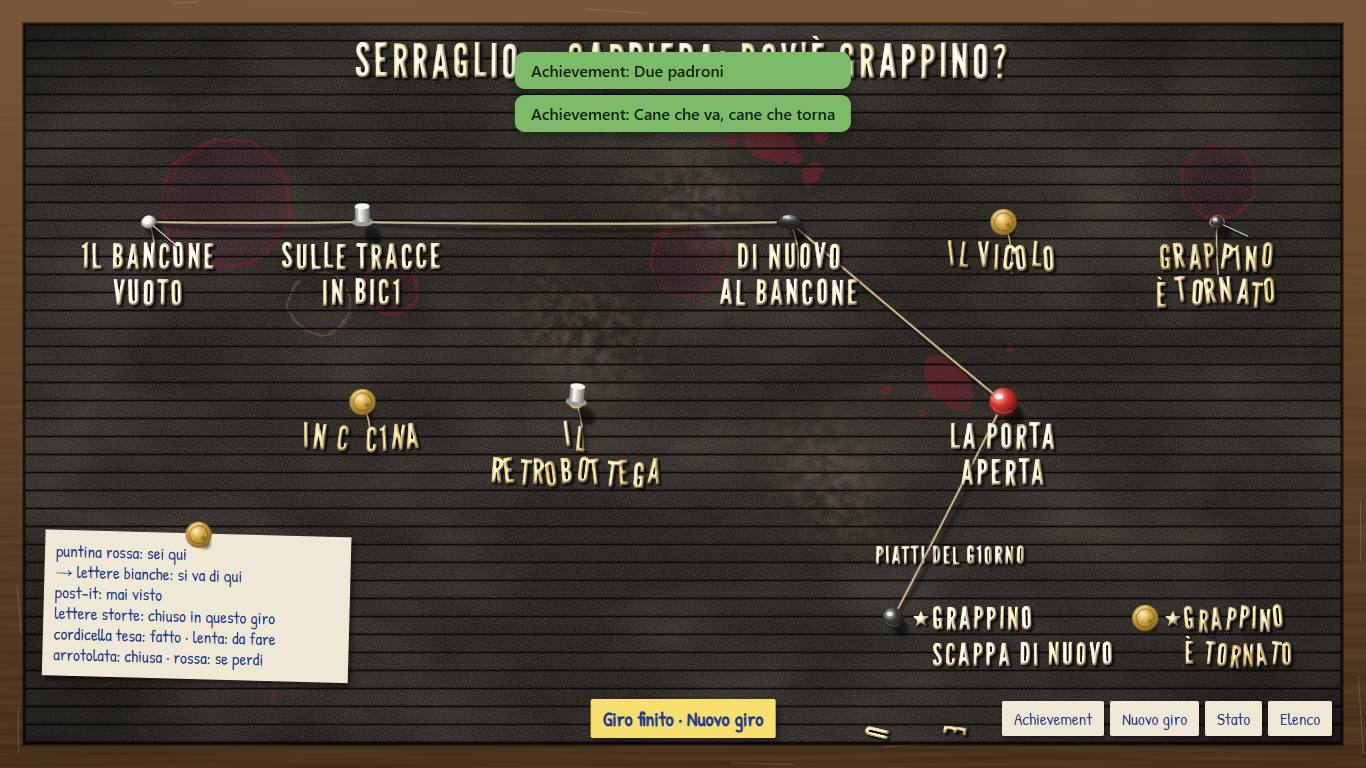
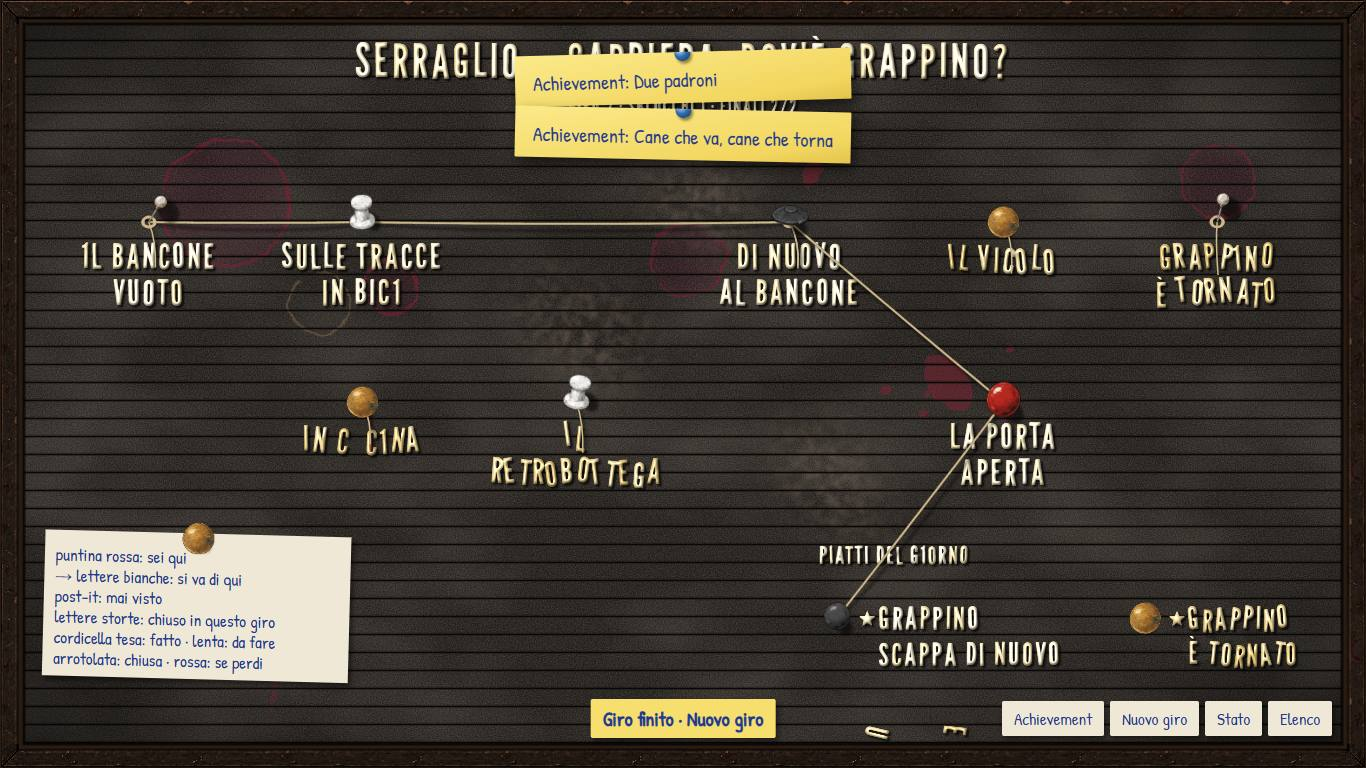
CA-0a: phase D, retouches after the owner's judgement of the real map
- Layer order, as the owner asked: letters, post-its and cards on the
  felt, then the strings with their shadow falling on everything below,
  then the pin heads they are tied to; both orientations, every string.
- The second-round generated pins have no point: each image is placed by
  where it enters the felt (base of the head, or the end of the shaft for
  the dressmaker's pin and the nail), measured on its alpha; rotation,
  strings and shadow follow that anchor.
- Bigger pins (round head about 26 px landscape, 22 px portrait, "you are
  here" 30% more); letters and post-its are laid out from the pins' real
  extent, so no pin covers a title or a post-it's "???".
- Achievement and unlock notices are pinned post-its and cards.
- Only the strings actually walked are taut; the others are slack if
  still possible, coiled otherwise: far less crowding at the end of a run.

47 unit tests, 25/25 mutations caught, Check and Build green, 52 captures
with the generated frame and pins (12 replaced, 1.3 MB). Report section in
prototipo-fase-d.md.

diff --git a/prototipi/carriere/src/bacheca.ts b/prototipi/carriere/src/bacheca.ts
@@ -148,11 +148,15 @@ export function componi(c: Carriera, s: Stato, ultimo: string | null, intestazio
     });
   }
   const g = s.giro;
-  const fatto = (id: string) => g.visti.includes(id) || (id.startsWith('fine:') && g.fine !== null && idCasellaFine(g.finale ?? '') === id);
-  // Anche il ritorno alla scelta (epilogo → scena 4) è una cordicella: sulla bacheca non c'è un verso.
+  // Tesa solo la cordicella percorsa davvero in questo giro (nodi visti uno dopo l'altro, e l'ultimo verso il finale raggiunto); lenta
+  // quella che si può ancora prendere; arrotolata ogni altra, anche fra due nodi visti ma per un'altra strada (ritocchi della Fase D:
+  // a fine giro restano tese solo quelle del percorso, e la bacheca non si affolla).
+  const percorso = new Set(g.visti.slice(1).map((x, i) => `${g.visti[i]}>${x}`));
+  if (g.fine && g.visti.length) percorso.add(`${g.visti.at(-1)}>${idCasellaFine(g.finale ?? g.fine)}`);
+  const ancoraPossibile = (id: string) => ['aperto', 'disponibile', 'bloccato'].includes(stati[id].stato);
   const fili: Filo[] = archi(c).filter(a => visibili.has(a.da) && visibili.has(a.a)).map(a => ({
     da: a.da, a: a.a, sconfitta: a.tipo === 'sconfitta',
-    tipo: fatto(a.da) && fatto(a.a) ? 'tesa' : stati[a.da].stato === 'escluso' || stati[a.a].stato === 'escluso' ? 'arrotolata' : 'lenta',
+    tipo: percorso.has(`${a.da}>${a.a}`) ? 'tesa' : ancoraPossibile(a.a) && stati[a.da].stato !== 'escluso' ? 'lenta' : 'arrotolata',
   }));
   const conti = `GIRO ${g.numero} · SBLOCCHI ${s.account.sblocchi.length} · FINALI ${s.account.finali.length}/${finali(c).length}`;
   return {
@@ -240,6 +244,8 @@ export type Disposizione = {
   pos: Record<string, Pt>;              // spillo di ogni punto
   etichette: Record<string, Etichetta>; // dove cominciano le lettere
   postit: {w: number; h: number};
+  lato: Record<string, number>;         // lato dell'immagine di ogni puntina, in pixel
+  postitY: Record<string, number>;      // bordo alto di ogni post-it: la puntina lo trafigge senza coprire il «???»
   legenda: {x: number; y: number; w: number; h: number; righe: string[]} | null;  // in verticale si apre con un pulsante
   fondo: number;                        // dove stanno le lettere cadute
 };
@@ -306,7 +312,8 @@ export function disponi(comp: Composizione, w: number, h: number, alto: number, 
     for (let i = voluti.length - 1; i >= 0; i--) {
       const x = Math.max(fx + p * 20, Math.min(voluti[i].x, limite));  // a sinistra resta la legenda
       pos[voluti[i].f.id] = {x, y: scan(yFinali + p * 2) + p};
-      limite = x - p * 14;
+      // Il finale a sinistra deve finire le sue lettere prima della puntina di questo.
+      limite = x - Math.max(p * 14, i > 0 ? larghezza(voluti[i - 1].f) + fs * 0.55 + p * 5 : 0);
     }
   } else {
     fini.forEach((f, i) => {
@@ -315,14 +322,57 @@ export function disponi(comp: Composizione, w: number, h: number, alto: number, 
       pos[f.id] = {x: f.postit ? centro : Math.max(fx + p, centro - blocco / 2), y: scan(yFinali + p * 2) + p};
     });
   }
+  // Le lettere stanno lontane dalla puntina (ritocchi della Fase D: nessuna puntina sopra un titolo): in orizzontale sotto il punto più
+  // basso della puntina, in verticale e per i finali a destra del punto più a destra; i post-it pendono abbastanza da lasciare libero il «???».
   const etichette: Record<string, Etichetta> = {};
+  const postitY: Record<string, number> = {};
+  const lato = Object.fromEntries(comp.punti.map(x => [x.id, latoPuntina(p, verticale, x.corrente) * SCALA[x.spillo.forma]]));
+  const ph = p * 3.8;
   for (const n of comp.punti) {
     const s = pos[n.id];
-    etichette[n.id] = n.tipo === 'finale' ? {x: s.x + p * 1.1 + fs * 0.55, y: s.y + p * 0.65, ancora: 'start'}
-      : verticale ? {x: s.x + p * 1.1 + (n.freccia ? fs * 0.8 : 0), y: s.y + p * 0.65, ancora: 'start'} : {x: s.x, y: s.y + p * 2.6, ancora: 'middle'};
+    const b = ingombroPuntina(n.spillo, s, lato[n.id]);
+    const destra = Math.max(s.x + p * 1.1, b.x1 + p * 0.4);
+    etichette[n.id] = n.tipo === 'finale' ? {x: destra + fs * 0.55, y: s.y + p * 0.65, ancora: 'start'}
+      : verticale ? {x: destra + (n.freccia ? fs * 0.8 : 0), y: s.y + p * 0.65, ancora: 'start'}
+      : {x: s.x, y: Math.max(s.y + p * 2.6, b.y1 + fs * ALTEZZA_MAIUSCOLE + p * 0.3), ancora: 'middle'};
+    postitY[n.id] = Math.max(s.y - p * 0.5, b.y1 + p * 0.3 - ph * 0.82 + p * 2 * 0.72);
   }
   const legenda = verticale ? null : {x: fx + p * 1.2, y: fy + fh - basso - lh - p * 0.6, w: p * 17, h: lh, righe: LEGENDA};
   const xTitoloFinali = verticale ? fx + fw / 2 : Math.min(...fini.map(f => pos[f.id].x)) - p;
   return {verticale, w, h, T, p, fx, fy, fw, fh, fs, testate, testataFs, yTestata, ySotto, yFinali, xTitoloFinali, pos, etichette,
-    postit: {w: verticale ? p * 7 : p * 8, h: p * 3.8}, legenda, fondo: fy + fh - p * 1.1};
+    postit: {w: verticale ? p * 7 : p * 8, h: ph}, legenda, fondo: fy + fh - p * 1.1, lato, postitY};
+}
+
+// ---------------------------------------------------------------------------------------------------------------------------------
+// Ritocchi della Fase D: puntine generate senza punta. Dove ogni immagine entra nel feltro (ancora), dov'è il centro della testa (per
+// l'ombra) e quanto occupa, in frazioni del lato dell'immagine (1254 px), misurati sull'alfa dei file in asset/bacheca/puntine.
+export type Geometria = {ancora: Pt; testa: Pt; box: [number, number, number, number]};
+export const GEOMETRIA: Record<Spillo['forma'], Geometria> = {
+  tonda: {ancora: {x: 0.496, y: 0.42}, testa: {x: 0.496, y: 0.387}, box: [0.261, 0.143, 0.731, 0.632]},
+  cilindro: {ancora: {x: 0.493, y: 0.59}, testa: {x: 0.493, y: 0.33}, box: [0.262, 0.096, 0.725, 0.72]},
+  ottone: {ancora: {x: 0.49, y: 0.425}, testa: {x: 0.49, y: 0.425}, box: [0.207, 0.141, 0.773, 0.709]},
+  spillo: {ancora: {x: 0.465, y: 0.523}, testa: {x: 0.598, y: 0.223}, box: [0.456, 0.143, 0.685, 0.526]},  // dove il gambo entra nel feltro
+  chiodino: {ancora: {x: 0.635, y: 0.262}, testa: {x: 0.47, y: 0.686}, box: [0.308, 0.253, 0.672, 0.806]},  // dove finisce il gambo
+  ombrello: {ancora: {x: 0.5, y: 0.555}, testa: {x: 0.5, y: 0.45}, box: [0.168, 0.26, 0.831, 0.611]},
+};
+
+/** Altezza delle maiuscole di League Gothic, in em: per sapere dove comincia una riga di lettere sopra la sua base. */
+export const ALTEZZA_MAIUSCOLE = 0.74;
+/** Lo spillo da sarta ha la testa piccola nell'immagine: si ingrandisce perché la perla si veda. */
+export const SCALA: Record<Spillo['forma'], number> = {tonda: 1, cilindro: 1, ottone: 1, spillo: 1.3, chiodino: 1, ombrello: 1};
+
+/** Lato dell'immagine di una puntina: la testa resta riconoscibile sul telefono (circa 22–30 px), «sei qui» un terzo più grande. */
+export function latoPuntina(p: number, verticale: boolean, corrente: boolean): number {
+  return p * (verticale ? 3.3 : 3.1) * (corrente ? 1.3 : 1);
+}
+
+/** Il rettangolo che una puntina occupa sul feltro, con la sua inclinazione (che ruota intorno all'ancora). */
+export function ingombroPuntina(s: Spillo, ancora: Pt, lato: number): {x0: number; y0: number; x1: number; y1: number} {
+  const g = GEOMETRIA[s.forma];
+  const ang = (s.inclinazione * Math.PI) / 180, cos = Math.cos(ang), sin = Math.sin(ang);
+  const angoli = [[g.box[0], g.box[1]], [g.box[2], g.box[1]], [g.box[0], g.box[3]], [g.box[2], g.box[3]]].map(([fx, fy]) => {
+    const dx = (fx - g.ancora.x) * lato, dy = (fy - g.ancora.y) * lato;
+    return {x: ancora.x + dx * cos - dy * sin, y: ancora.y + dx * sin + dy * cos};
+  });
+  return {x0: Math.min(...angoli.map(q => q.x)), y0: Math.min(...angoli.map(q => q.y)), x1: Math.max(...angoli.map(q => q.x)), y1: Math.max(...angoli.map(q => q.y))};
 }

diff --git a/prototipi/carriere/src/ui/Bacheca.tsx b/prototipi/carriere/src/ui/Bacheca.tsx
@@ -4,7 +4,7 @@
 import {useEffect, useState, type ReactNode} from 'react';
 import type {Carriera} from '../formato.ts';
 import {avversari, entra, finali, nodo as trovaNodo, risolvi, type Evento, type Stato} from '../motore.ts';
-import {caso, CARATTERE_LETTERA, componi, disponi, sporco, LEGENDA, type Punto} from '../bacheca.ts';
+import {caso, CARATTERE_LETTERA, componi, disponi, latoPuntina, sporco, LEGENDA, type Punto} from '../bacheca.ts';
 import type {StatoNodo} from '../mappa.ts';
 import {nomeDi, nomeSblocco} from './dati.ts';
 import {CorniceDisegnata, Cordicella, Definizioni, FELTRO, FETTA_CORNICE, Freccia, immagine, Postit, Puntina, Riga, Sporco, Stella} from './disegno.tsx';
@@ -53,9 +53,10 @@ export function Bacheca({c, s, azione, onRiprendi, onAchievement, onNuovoGiro, o
     let box: {x: number; y: number; w: number; h: number};
     if (n.postit) {
       const {w: pw, h: ph} = d.postit;
-      elementi.push(<Postit key={`p-${n.id}`} x={sp.x} y={sp.y - p * 0.5} w={pw} h={ph} ruota={n.inclinazione} fs={p * 2} />);
-      if (n.freccia) elementi.push(<Freccia key={`f-${n.id}`} x={sp.x - pw / 2 - fs * 0.75} y={sp.y - p * 0.5 + ph * 0.62} fs={fs} />);
-      box = {x: sp.x - pw / 2 - (n.freccia ? fs * 0.8 : 0), y: sp.y - p, w: pw + (n.freccia ? fs * 0.8 : 0), h: ph + p};
+      const py = d.postitY[n.id];
+      elementi.push(<Postit key={`p-${n.id}`} x={sp.x} y={py} w={pw} h={ph} ruota={n.inclinazione} fs={p * 2} />);
+      if (n.freccia) elementi.push(<Freccia key={`f-${n.id}`} x={sp.x - pw / 2 - fs * 0.75} y={py + ph * 0.62} fs={fs} />);
+      box = {x: sp.x - pw / 2 - (n.freccia ? fs * 0.8 : 0), y: Math.min(sp.y - p, py), w: pw + (n.freccia ? fs * 0.8 : 0), h: py + ph - Math.min(sp.y - p, py)};
     } else {
       if (n.tipo === 'finale') elementi.push(<Stella key={`s-${n.id}`} x={e.x - fs * 0.32} y={e.y - fs * 0.3} r={fs * 0.26} colore={n.titolo[0][0]?.colore ?? '#e6d9b2'} />);
       n.titolo.forEach((riga, i) => {
@@ -68,7 +69,7 @@ export function Bacheca({c, s, azione, onRiprendi, onAchievement, onNuovoGiro, o
       });
       const lw = larghezza(n), righe = n.titolo.length;
       box = e.ancora === 'middle'
-        ? {x: e.x - lw / 2 - p, y: sp.y - p, w: lw + p * 2, h: p * (2.8 + righe * 2)}
+        ? {x: e.x - lw / 2 - p, y: sp.y - p, w: lw + p * 2, h: e.y - sp.y + p * 1.6 + (righe - 1) * p * 2}
         : {x: sp.x - p, y: sp.y - p * 1.2, w: e.x - sp.x + lw + p * 2, h: p * (1.6 + righe * 2)};
     }
     aree.push(
@@ -81,7 +82,13 @@ export function Bacheca({c, s, azione, onRiprendi, onAchievement, onNuovoGiro, o
   // Lettere cadute in fondo alla cornice (dai nodi esclusi) e una di sempre, decise dai dati.
   const r = caso(`${c.id}:cadute`);
   const cadute = [...comp.punti.flatMap(n => n.caduta ? [n.caduta] : []), {c: 'E', ruota: 96, dy: 0, colore: '#d2b97c'}];
-  const raggio = p * (verticale ? 0.5 : 0.58);
+  const cartoncinoLegenda = (l: NonNullable<typeof legenda>) => (
+    <g transform={`translate(${l.x} ${l.y}) rotate(${verticale ? -1 : 1.5})`} data-testid={verticale ? undefined : 'legenda'}>
+      <rect x={3} y={4} width={l.w} height={l.h} fill="rgba(0,0,0,.45)" filter="url(#sfoca)" />
+      <rect width={l.w} height={l.h} fill="#efe8d6" />
+      {l.righe.map((t, i) => <text key={i} x={p * 0.6} y={p * (1.7 + i * (verticale ? 1.25 : 1.15))} fontSize={p * (verticale ? 1.15 : 0.95)} className="penna">{t}</text>)}
+    </g>
+  );
   const colori = [...new Set(comp.punti.map(x => x.spillo.colore))];
   const legenda = d.legenda ?? (legendaAperta ? {x: fx + p * 2, y: fy + 70, w: fw - p * 4, h: p * (LEGENDA.length * 1.25 + 1.4), righe: LEGENDA} : null);
 
@@ -106,23 +113,17 @@ export function Bacheca({c, s, azione, onRiprendi, onAchievement, onNuovoGiro, o
         <Riga lettere={comp.sottotitolo} x={fx + fw / 2} y={d.ySotto} fs={fs * 0.62} ancora="middle" />
         <Riga lettere={comp.titoloFinali} x={d.xTitoloFinali} y={d.yFinali} fs={fs * 0.7} ancora={verticale ? 'middle' : 'start'} />
 
-        {/* Cordicelle sotto le lettere, poi lettere e post-it, poi spilli e puntine */}
-        {comp.fili.map(f => <Cordicella key={`${f.da}>${f.a}`} a={d.pos[f.da]} b={d.pos[f.a]} tipo={f.tipo} rossa={f.sconfitta} seme={`${f.da}>${f.a}`} />)}
-        {elementi}
-        {comp.punti.map(n => <Puntina key={n.id} id={n.id} x={d.pos[n.id].x} y={d.pos[n.id].y} r={n.corrente ? raggio * 1.35 : raggio} s={n.spillo} />)}
+        {/* Livelli (giudizio del proprietario sulla Fase D): lettere cadute, cartoncino della legenda, lettere e post-it sul feltro; sopra
+            tutto le cordicelle tese fra gli spilli, con la loro ombra che cade su ciò che sta sotto; in cima le teste delle puntine. */}
         {cadute.map((l, i) => <Riga key={`c-${i}`} lettere={[{...l, dy: 0}]} x={fx + fw * (verticale ? 0.82 + i * 0.07 : 0.62 + i * 0.06 + r() * 0.03)} y={d.fondo} fs={fs * 0.9} />)}
-
-        {/* Cartoncino della legenda: fisso in orizzontale, a richiesta in verticale */}
-        {legenda && (
-          <g data-testid="legenda" onClick={() => setLegendaAperta(false)}>
-            <g transform={`translate(${legenda.x} ${legenda.y}) rotate(${verticale ? -1 : 1.5})`}>
-              <rect x={3} y={4} width={legenda.w} height={legenda.h} fill="rgba(0,0,0,.45)" filter="url(#sfoca)" />
-              <rect width={legenda.w} height={legenda.h} fill="#efe8d6" />
-              {legenda.righe.map((t, i) => <text key={i} x={p * 0.6} y={p * (1.5 + i * (verticale ? 1.25 : 1.15))} fontSize={p * (verticale ? 1.15 : 0.95)} className="penna">{t}</text>)}
-            </g>
-            <Puntina id="legenda" x={legenda.x + legenda.w / 2} y={legenda.y + p * 0.3} r={raggio} s={{forma: 'ottone', colore: '#d4a944', inclinazione: 0}} />
-          </g>
-        )}
+        {legenda && !verticale && cartoncinoLegenda(legenda)}
+        {elementi}
+        {comp.fili.map(f => <Cordicella key={`${f.da}>${f.a}`} a={d.pos[f.da]} b={d.pos[f.a]} tipo={f.tipo} rossa={f.sconfitta} seme={`${f.da}>${f.a}`} />)}
+        {comp.punti.map(n => <Puntina key={n.id} id={n.id} x={d.pos[n.id].x} y={d.pos[n.id].y} lato={d.lato[n.id]} s={n.spillo} />)}
+        {legenda && !verticale && <Puntina id="legenda" x={legenda.x + legenda.w / 2} y={legenda.y + p * 0.5} lato={latoPuntina(p, verticale, false)} s={{forma: 'ottone', colore: '#d4a944', inclinazione: 0}} />}
+        {/* In verticale la legenda si apre sopra la mappa, a richiesta */}
+        {legenda && verticale && <g data-testid="legenda" onClick={() => setLegendaAperta(false)}>{cartoncinoLegenda(legenda)}
+          <Puntina id="legenda" x={legenda.x + legenda.w / 2} y={legenda.y + p * 0.5} lato={latoPuntina(p, verticale, false)} s={{forma: 'ottone', colore: '#d4a944', inclinazione: 0}} /></g>}
         {aree}
       </svg>
       {/* La cornice generata, tagliata in nove fette: angoli fermi, lati ripetuti. */}

diff --git a/prototipi/carriere/tests/bacheca.test.ts b/prototipi/carriere/tests/bacheca.test.ts
@@ -151,3 +151,65 @@ test('a fine giro cade una sola lettera in tutta la bacheca, mai la prima o l\'u
   assert.ok(i > 0 && r[i - 1].c !== ' ' && r[i + 1] && r[i + 1].c !== ' ');
   assert.ok(comp.punti.filter(x => x.stato === 'escluso').length > 2, 'le altre righe escluse restano solo storte');
 });
+
+// Ritocchi della Fase D, dopo il giudizio del proprietario.
+import {ALTEZZA_MAIUSCOLE, GEOMETRIA, ingombroPuntina, latoPuntina} from '../src/bacheca.ts';
+
+test('nessuna puntina sopra le lettere di un titolo, né sopra il «???» di un post-it', () => {
+  // Gli stati veri, e poi le stesse bacheche con tutte le puntine di una sola forma: ogni forma deve stare lontana dalle lettere.
+  const forme = [null, ...FORME.filter((f, i) => FORME.indexOf(f) === i)];
+  for (const c of [tutorial(), prova()]) for (const {nome, s} of stati(c)) for (const [w, h] of [[1366, 768], [390, 844]]) for (const forma of forme) {
+    const comp = componi(c, s, s.giro.visti.at(-1) ?? null, `Serraglio — carriera: ${c.titolo}`, h > w ? 12 : 13);
+    if (forma) for (const x of comp.punti) x.spillo = {...x.spillo, forma, inclinazione: 0};
+    const d = disponi(comp, w, h, h > w ? 56 : 0, h > w ? 64 : 58);
+    const dove = `${c.id}, ${nome}, ${w}×${h}${forma ? `, tutte ${forma}` : ''}`;
+    const testi = comp.punti.map(x => {
+      const e = d.etichette[x.id], fsR = x.tipo === 'finale' ? d.fs * 0.9 : d.fs;
+      if (x.postit) {
+        // Il «???» scritto a penna: corpo 2p, base all'82% del post-it.
+        const base = d.postitY[x.id] + d.postit.h * 0.82;
+        return {id: x.id, x0: d.pos[x.id].x - d.p * 1.6, x1: d.pos[x.id].x + d.p * 1.6, y0: base - d.p * 2 * 0.72, y1: base};
+      }
+      const lw = Math.max(...x.titolo.map(t => t.length)) * 0.42 * fsR;
+      const x0 = e.ancora === 'middle' ? e.x - lw / 2 : e.x;
+      return {id: x.id, x0, x1: x0 + lw, y0: e.y - fsR * ALTEZZA_MAIUSCOLE, y1: e.y + (x.titolo.length - 1) * d.p * 2};
+    });
+    for (const x of comp.punti) {
+      const b = ingombroPuntina(x.spillo, d.pos[x.id], d.lato[x.id]);
+      for (const t of testi) {
+        const sopra = b.x0 < t.x1 && b.x1 > t.x0 && b.y0 < t.y1 && b.y1 > t.y0;
+        assert.ok(!sopra, `${dove}: la puntina di ${x.id} copre le lettere di ${t.id}`);
+      }
+    }
+  }
+});
+
+test('le puntine sono abbastanza grandi da riconoscersi sul telefono, «sei qui» di più', () => {
+  for (const verticale of [false, true]) {
+    const p = verticale ? 14 : 18;
+    const testa = (forma: keyof typeof GEOMETRIA, corrente = false) => (GEOMETRIA[forma].box[2] - GEOMETRIA[forma].box[0]) * latoPuntina(p, verticale, corrente);
+    assert.ok(testa('tonda') >= 20, `testa tonda ${testa('tonda').toFixed(0)} px`);
+    assert.ok(testa('tonda', true) >= 26, `«sei qui» ${testa('tonda', true).toFixed(0)} px`);
+  }
+});
+
+test('l\'ancora è il punto in cui la puntina entra nel feltro: lì si legano le cordicelle, e l\'inclinazione ruota intorno a lì', () => {
+  const s = {forma: 'chiodino' as const, colore: '#000', inclinazione: 0};
+  const b = ingombroPuntina(s, {x: 100, y: 100}, 100);
+  const g = GEOMETRIA.chiodino;
+  assert.ok(Math.abs(b.x0 - (100 + (g.box[0] - g.ancora.x) * 100)) < 1e-9 && Math.abs(b.y1 - (100 + (g.box[3] - g.ancora.y) * 100)) < 1e-9);
+  const ruotato = ingombroPuntina({...s, inclinazione: 90}, {x: 100, y: 100}, 100);
+  assert.ok(ruotato.x1 <= 100 + 1e-9 + (g.ancora.y - g.box[1]) * 100 && ruotato.x0 < 100);
+});
+
+test('a fine giro sono tese solo le cordicelle del percorso fatto; le altre si arrotolano', () => {
+  const c = prova();
+  let fine = statoBozzetto(c).stato;
+  for (const f of [(x: Stato) => entra(c, x, 'nodo-e'), (x: Stato) => salta(c, x), (x: Stato) => entra(c, x, 'nodo-d'), (x: Stato) => salta(c, x),
+    (x: Stato) => vinci(c, x), (x: Stato) => scegli(c, x, 2), (x: Stato) => entra(c, x, 'nodo-h'), (x: Stato) => salta(c, x)]) fine = f(fine).stato;
+  const fili = componi(c, fine, 'nodo-h', 'x').fili;
+  assert.deepEqual(fili.filter(f => f.tipo === 'tesa').map(f => `${f.da}>${f.a}`).sort(),
+    ['nodo-a>nodo-c', 'nodo-c>nodo-e', 'nodo-d>nodo-h', 'nodo-e>nodo-d', 'nodo-h>fine:grappino-scappa-di-nuovo']);
+  assert.equal(fili.find(f => f.da === 'nodo-c' && f.a === 'nodo-d')!.tipo, 'arrotolata', 'fra due nodi visti, ma non percorsa');
+  assert.ok(!fili.some(f => f.tipo === 'lenta'), 'a giro finito non c\'è più niente da fare');
+});

diff --git a/prototipi/carriere/src/ui/disegno.tsx b/prototipi/carriere/src/ui/disegno.tsx
@@ -1,7 +1,7 @@
 // CA-0a, Fase D: i pezzi disegnati della bacheca (bacheca.md). Feltro, scanalature, lettere, cordicelle e sporco dal codice; cornice e
 // puntine dal codice finché non arrivano le immagini generate (prompt-bacheca.md, in docs/design/carriere/asset/bacheca/), poi da lì.
 import type {ReactNode} from 'react';
-import {caso, catenaria, DI_PLASTICA, ROSSO_SEI_QUI, type Disposizione, type Filo, type Lettera, type Macchia, type Pt, type Spillo} from '../bacheca.ts';
+import {caso, catenaria, DI_PLASTICA, GEOMETRIA, ROSSO_SEI_QUI, type Disposizione, type Filo, type Lettera, type Macchia, type Pt, type Spillo} from '../bacheca.ts';
 
 // Le immagini generate, se ci sono: Vite le trova con il glob; finché la cartella è vuota resta tutto disegnato dal codice.
 const RADICE = '../../../../docs/design/carriere/asset/bacheca/';
@@ -69,17 +69,22 @@ function OmbraPuntina({x, y, r, s}: {x: number; y: number; r: number; s: Spillo}
 
 /**
  * Puntine e spilli trovati nel cassetto. Con l'immagine generata (puntine/<nome>.webp) si usa quella, ricolorata se è di plastica; senza,
- * il disegno del codice. L'ombra portata la calcola sempre il client.
+ * il disegno del codice. (x, y) è il punto in cui la puntina entra nel feltro, dove si legano le cordicelle: per le immagini del secondo
+ * giro, senza punta, è la base della testa, o la fine del gambo per spillo e chiodino (GEOMETRIA in bacheca.ts). L'ombra portata la
+ * calcola il client dal centro della testa.
  */
-export function Puntina({id, x, y, r, s}: {id: string; x: number; y: number; r: number; s: Spillo}) {
+export function Puntina({id, x, y, lato, s}: {id: string; x: number; y: number; lato: number; s: Spillo}) {
   const file = immagine(`puntine/${FILE[s.forma]}.webp`);
+  const r = lato * 0.19;
   if (file) {
-    const lato = r * 3.4;
+    const g = GEOMETRIA[s.forma];
     const ricolora = DI_PLASTICA.has(s.forma) && !(s.forma === 'tonda' && s.colore === ROSSO_SEI_QUI);
+    const ang = (s.inclinazione * Math.PI) / 180, dx = (g.testa.x - g.ancora.x) * lato, dy = (g.testa.y - g.ancora.y) * lato;
+    const testa = {x: x + dx * Math.cos(ang) - dy * Math.sin(ang), y: y + dx * Math.sin(ang) + dy * Math.cos(ang)};
     return (
       <g>
-        <OmbraPuntina x={x} y={y} r={r} s={s} />
-        <image href={file} x={x - lato / 2} y={y - lato / 2} width={lato} height={lato} transform={`rotate(${s.inclinazione} ${x} ${y})`}
+        <OmbraPuntina x={testa.x} y={testa.y} r={r} s={s} />
+        <image href={file} x={x - g.ancora.x * lato} y={y - g.ancora.y * lato} width={lato} height={lato} transform={`rotate(${s.inclinazione} ${x} ${y})`}
           filter={ricolora ? `url(#${idColore(s.colore)})` : undefined} />
       </g>
     );

diff --git a/prototipi/carriere/src/ui/stile.css b/prototipi/carriere/src/ui/stile.css
@@ -102,7 +102,15 @@ button.primario { background: var(--accento); color: #20160e; border-color: var(
 .pannello-stato { position: fixed; top: 0; right: 0; bottom: 0; width: min(360px, 100vw); background: rgba(16,11,8,.96); border-left: 1px solid var(--bordo);
   padding: 12px; z-index: 20; overflow: auto; font-size: .85em; display: flex; flex-direction: column; gap: 6px; }
 .avvisi { position: fixed; top: 52px; left: 50%; transform: translateX(-50%); z-index: 30; display: flex; flex-direction: column; gap: 6px; pointer-events: none; }
-.avviso { background: var(--verde); color: #10200c; padding: 8px 16px; border-radius: 10px; font-weight: 600; box-shadow: 0 4px 12px rgba(0,0,0,.4); animation: scende .3s; }
+/* Notifiche come cartoncini e post-it appesi con una puntina (ritocchi della Fase D) */
+.avviso { position: relative; background: #efe8d6; color: #233a8f; padding: 14px 18px 10px; border-radius: 1px; font-family: 'Patrick Hand', cursive;
+  font-size: 20px; box-shadow: 3px 6px 12px rgba(0,0,0,.55); animation: appeso .35s ease-out; transform: rotate(-1.5deg); max-width: min(420px, 88vw); }
+.avviso:nth-child(2n) { transform: rotate(1.2deg); }
+.avviso.achievement { background: linear-gradient(170deg, #fbe98a, #f2d65f 80%, #e3c34c); }
+.avviso::before { content: ''; position: absolute; top: -7px; left: 50%; width: 16px; height: 16px; margin-left: -8px; border-radius: 50%;
+  background: radial-gradient(circle at 35% 30%, #ffc9bd, #d7322a 45%, #6b0f0b); box-shadow: 2px 3px 3px rgba(0,0,0,.45); }
+.avviso.achievement::before { background: radial-gradient(circle at 35% 30%, #c8e4ff, #2f6fb5 45%, #12304f); }
+@keyframes appeso { from { transform: translateY(-24px) rotate(-6deg); opacity: 0; } }
 
 /* Telefono (Fase C, impressione 6): pulsanti di almeno 48 px. */
 @media (pointer: coarse), (orientation: portrait) {

diff --git a/prototipi/carriere/src/ui/App.tsx b/prototipi/carriere/src/ui/App.tsx
@@ -9,7 +9,7 @@ import {useCarattere} from './font.ts';
 import {Achievement, Elenco, PannelloStato} from './Pannelli.tsx';
 import {azzeraTutto, carica, caricaNome, salva, salvaNome} from './salvataggio.ts';
 
-type Avviso = {id: number; testo: string};
+type Avviso = {id: number; testo: string; tipo: Evento['tipo']};
 
 export function App() {
   const [nome, setNome] = useState(caricaNome);
@@ -33,13 +33,14 @@ export function App() {
         : e.tipo === 'achievement' ? `Achievement: ${c.achievement.find(a => a.id === e.achievement)?.titolo ?? e.achievement}`
         : e.tipo === 'ramo' ? 'Hai perso… e si apre un\'altra strada' : null;
       if (!testo) continue;
-      setAvvisi(x => [...x, {id, testo}]);
+      setAvvisi(x => [...x, {id, testo, tipo: e.tipo}]);
       window.setTimeout(() => setAvvisi(x => x.filter(a => a.id !== id)), 3200);
     }
   }, []);
 
   const c = carriere.find(x => x.id === aperta);
-  const avvisiDom = <div className="avvisi">{avvisi.map(a => <div key={a.id} className="avviso" data-testid="avviso">{a.testo}</div>)}</div>;
+  // Notifiche nello stile della bacheca (ritocchi della Fase D): post-it per gli achievement, cartoncino per sblocchi e rami.
+  const avvisiDom = <div className="avvisi">{avvisi.map(a => <div key={a.id} className={`avviso ${a.tipo}`} data-testid="avviso">{a.testo}</div>)}</div>;
 
   if (!c) {
     return <>

diff --git a/docs/design/carriere/prototipo-fase-d.md b/docs/design/carriere/prototipo-fase-d.md
@@ -119,3 +119,31 @@ testa degli spilli a cui è legata.
 [immagini](prompt-bacheca.md#secondo-giro)), quindi il punto in cui entrano nel feltro va spostato alla base della testa; puntine più grandi,
 perché a una dozzina di pixel il dettaglio si perde, soprattutto «sei qui»; notifiche degli achievement nello stile della bacheca invece dei
 rettangoli verdi; meno affollamento di cordicelle in verticale a fine giro; nessuna puntina sopra le lettere di un titolo.
+
+## Ritocchi dopo il giudizio
+
+12 novembre 2026, sul [giudizio del proprietario](#giudizio-del-proprietario) e sui ritocchi della regia, con le immagini generate del
+[secondo giro](prompt-bacheca.md#secondo-giro) già in `asset/bacheca/` (non toccate).
+
+| Ritocco | Cosa è cambiato |
+|---|---|
+| **Cordicelle sopra le lettere** (il punto del proprietario) | Ordine dei livelli, in tutti e due gli orientamenti e per ogni cordicella (tesa, lenta, arrotolata, rossa): feltro e sporco; lettere cadute, cartoncino della legenda, lettere dei titoli e post-it; poi le cordicelle, con l'ombra che cade su tutto ciò che sta sotto; in cima le teste delle puntine a cui sono legate. In verticale la legenda, che si apre a richiesta, sta sopra a tutto |
+| **Puntine senza punta** | Ho misurato sull'alfa di ogni immagine (1254×1254) l'ingombro, il centro della testa e il punto in cui la puntina entra nel feltro: alla base della testa per tonda, cilindro, ottone e ombrello, alla fine del gambo per spillo e chiodino. L'immagine si posa con quel punto sull'ancora, l'inclinazione ruota intorno a lì, le cordicelle si legano lì e l'ombra parte dal centro della testa (`GEOMETRIA` in `src/bacheca.ts`) |
+| **Puntine più grandi** | Lato dell'immagine 3,1 scanalature in orizzontale e 3,3 in verticale (testa tonda di circa 26 e 22 px), «sei qui» il 30% più grande (circa 34 e 28 px); lo spillo, che ha la perla piccola, il 30% in più |
+| **Nessuna puntina sopra i titoli** | La disposizione calcola dove cominciano le lettere a partire dall'ingombro vero della puntina (sotto il suo punto più basso in orizzontale, a destra del suo punto più a destra in verticale e per i finali), e quanto pende un post-it perché la puntina non copra il «???». I finali in orizzontale si distanziano secondo la lunghezza del titolo a sinistra. Una prova lo controlla per le due carriere, all'inizio, a metà e a fine giro, nei due orientamenti, sia con le puntine vere sia con bacheche di una forma sola, per ognuna delle sei |
+| **Notifiche** | Cartoncini e post-it appesi con una puntina, scritti a penna e un po' storti: post-it giallo con puntina blu per gli achievement, cartoncino con puntina rossa per sblocchi e rami; valgono anche nelle scene |
+| **Meno cordicelle a fine giro** | Tesa solo la cordicella percorsa davvero (nodi visitati uno dopo l'altro, e l'ultimo verso il finale); lenta quella che si può ancora prendere; arrotolata ogni altra, anche fra due nodi visti per un'altra strada. A fine giro in verticale restano tese solo le cinque del percorso |
+
+| Orizzontale, a metà del secondo giro | Verticale, a fine del secondo giro |
+|---|---|
+| ![Mappa a metà giro](../../../prototipi/carriere/catture/o-20b-cartoncino.jpg) | ![Mappa a fine giro](../../../prototipi/carriere/catture/v-23-mappa-due-finali.jpg) |
+
+**Verifiche:** `Test` verde, 47 prove (nuove: nessuna puntina sopra le lettere o il «???», puntine abbastanza grandi, ancora e rotazione,
+a fine giro tese solo le cordicelle del percorso); `Check` e `Build` verdi; `Shots` verde, 52 catture con la cornice e le puntine generate;
+mutazioni 25 su 25 prese (nuove: tese tutte le cordicelle fra nodi visti, lettere e post-it che ignorano l'ingombro della puntina, finali a
+distanza fissa); `check-links`, `check-rules` e `git diff --check` verdi. Lo script delle catture ora torna al font predefinito dopo il
+giro dei font, che sono otto. **Catture in git:** 12 sostituite, 1,3 MB: mappa del tutorial (`06`, `13`) e della prova a metà (`15`,
+`20b`) e a fine giro (`19`, `23`), nei due orientamenti. **Rossi:** nessuno.
+
+**Non verificato:** il telefono vero. **Da giudicare:** se le cordicelle sopra le lettere si leggono ancora bene, se le puntine si
+riconoscono sul telefono, le notifiche appese, la fine giro in verticale.

diff --git a/docs/product-roadmap.md b/docs/product-roadmap.md
@@ -62,7 +62,7 @@ stato:** si aggiorna a ogni passo, l'[indice](README.md#stato-corrente) ne ripor
 | Specifica degli asset del dialogo | CA-0 | **Confermata** dalla fetta verticale (11 novembre 2026) | [specifica](design/carriere/specifica-asset.md) |
 | Materiale visivo del tutorial | CA-1 | **Completo e approvato** (11 novembre 2026): 3 sfondi con 2 varianti, 15 ritratti, 3 pose di Grappino, la bici, 2 sagome. **Da aggiungere:** Mara e Spazienzio esasperati, per chi ascolta Piera (P8 del prototipo) | [fetta](design/carriere/prompt-fetta.md), [tre giri](design/carriere/prompt-tutorial-resto.md) |
 | Nome del bar | CA | **Deciso** (11 novembre 2026): Il Serraglio, insegna «BAR IL SERRAGLIO»; resta se farne il titolo del gioco | [flavour](design/set-base/flavour.md#il-mondo) |
-| **CA-0a** Prototipo delle carriere | CA-0 | **Fase D fatta e giudicata** (12 novembre 2026): «la mappa vera mi piace», con le cordicelle da portare sopra lettere e post-it; cornice e puntine generate al secondo giro; ultimo giro di ritocchi della mappa avviato | [prototipo](design/carriere/prototipo.md), [proposta della Fase A](design/carriere/prototipo-fase-a.md), [rapporto della Fase B](design/carriere/prototipo-fase-b.md), [rapporto della Fase C](design/carriere/prototipo-fase-c.md), [rapporto della Fase D](design/carriere/prototipo-fase-d.md) |
+| **CA-0a** Prototipo delle carriere | CA-0 | **Ritocchi della mappa fatti** (12 novembre 2026), in attesa del giudizio del proprietario: cordicelle sopra lettere e post-it, puntine generate più grandi e ancorate dove entrano nel feltro, notifiche appese, fine giro meno affollata | [prototipo](design/carriere/prototipo.md), [proposta della Fase A](design/carriere/prototipo-fase-a.md), [rapporto della Fase B](design/carriere/prototipo-fase-b.md), [rapporto della Fase C](design/carriere/prototipo-fase-c.md), [rapporto della Fase D](design/carriere/prototipo-fase-d.md) |
 | Epilogo del tutorial | CA-1 | Da scrivere: battute al Dimmi Di Sì per chi raggiunge gli amici | [dialoghi](design/carriere/tutorial-dialoghi.md#epilogo-del-fallimento--da-scrivere) |
 
 **CA-0a, il prototipo.** È il primo pezzo di [CA-0](#ca--carriera-single-player) anticipato, usa e getta, in una cartella sua fuori da
